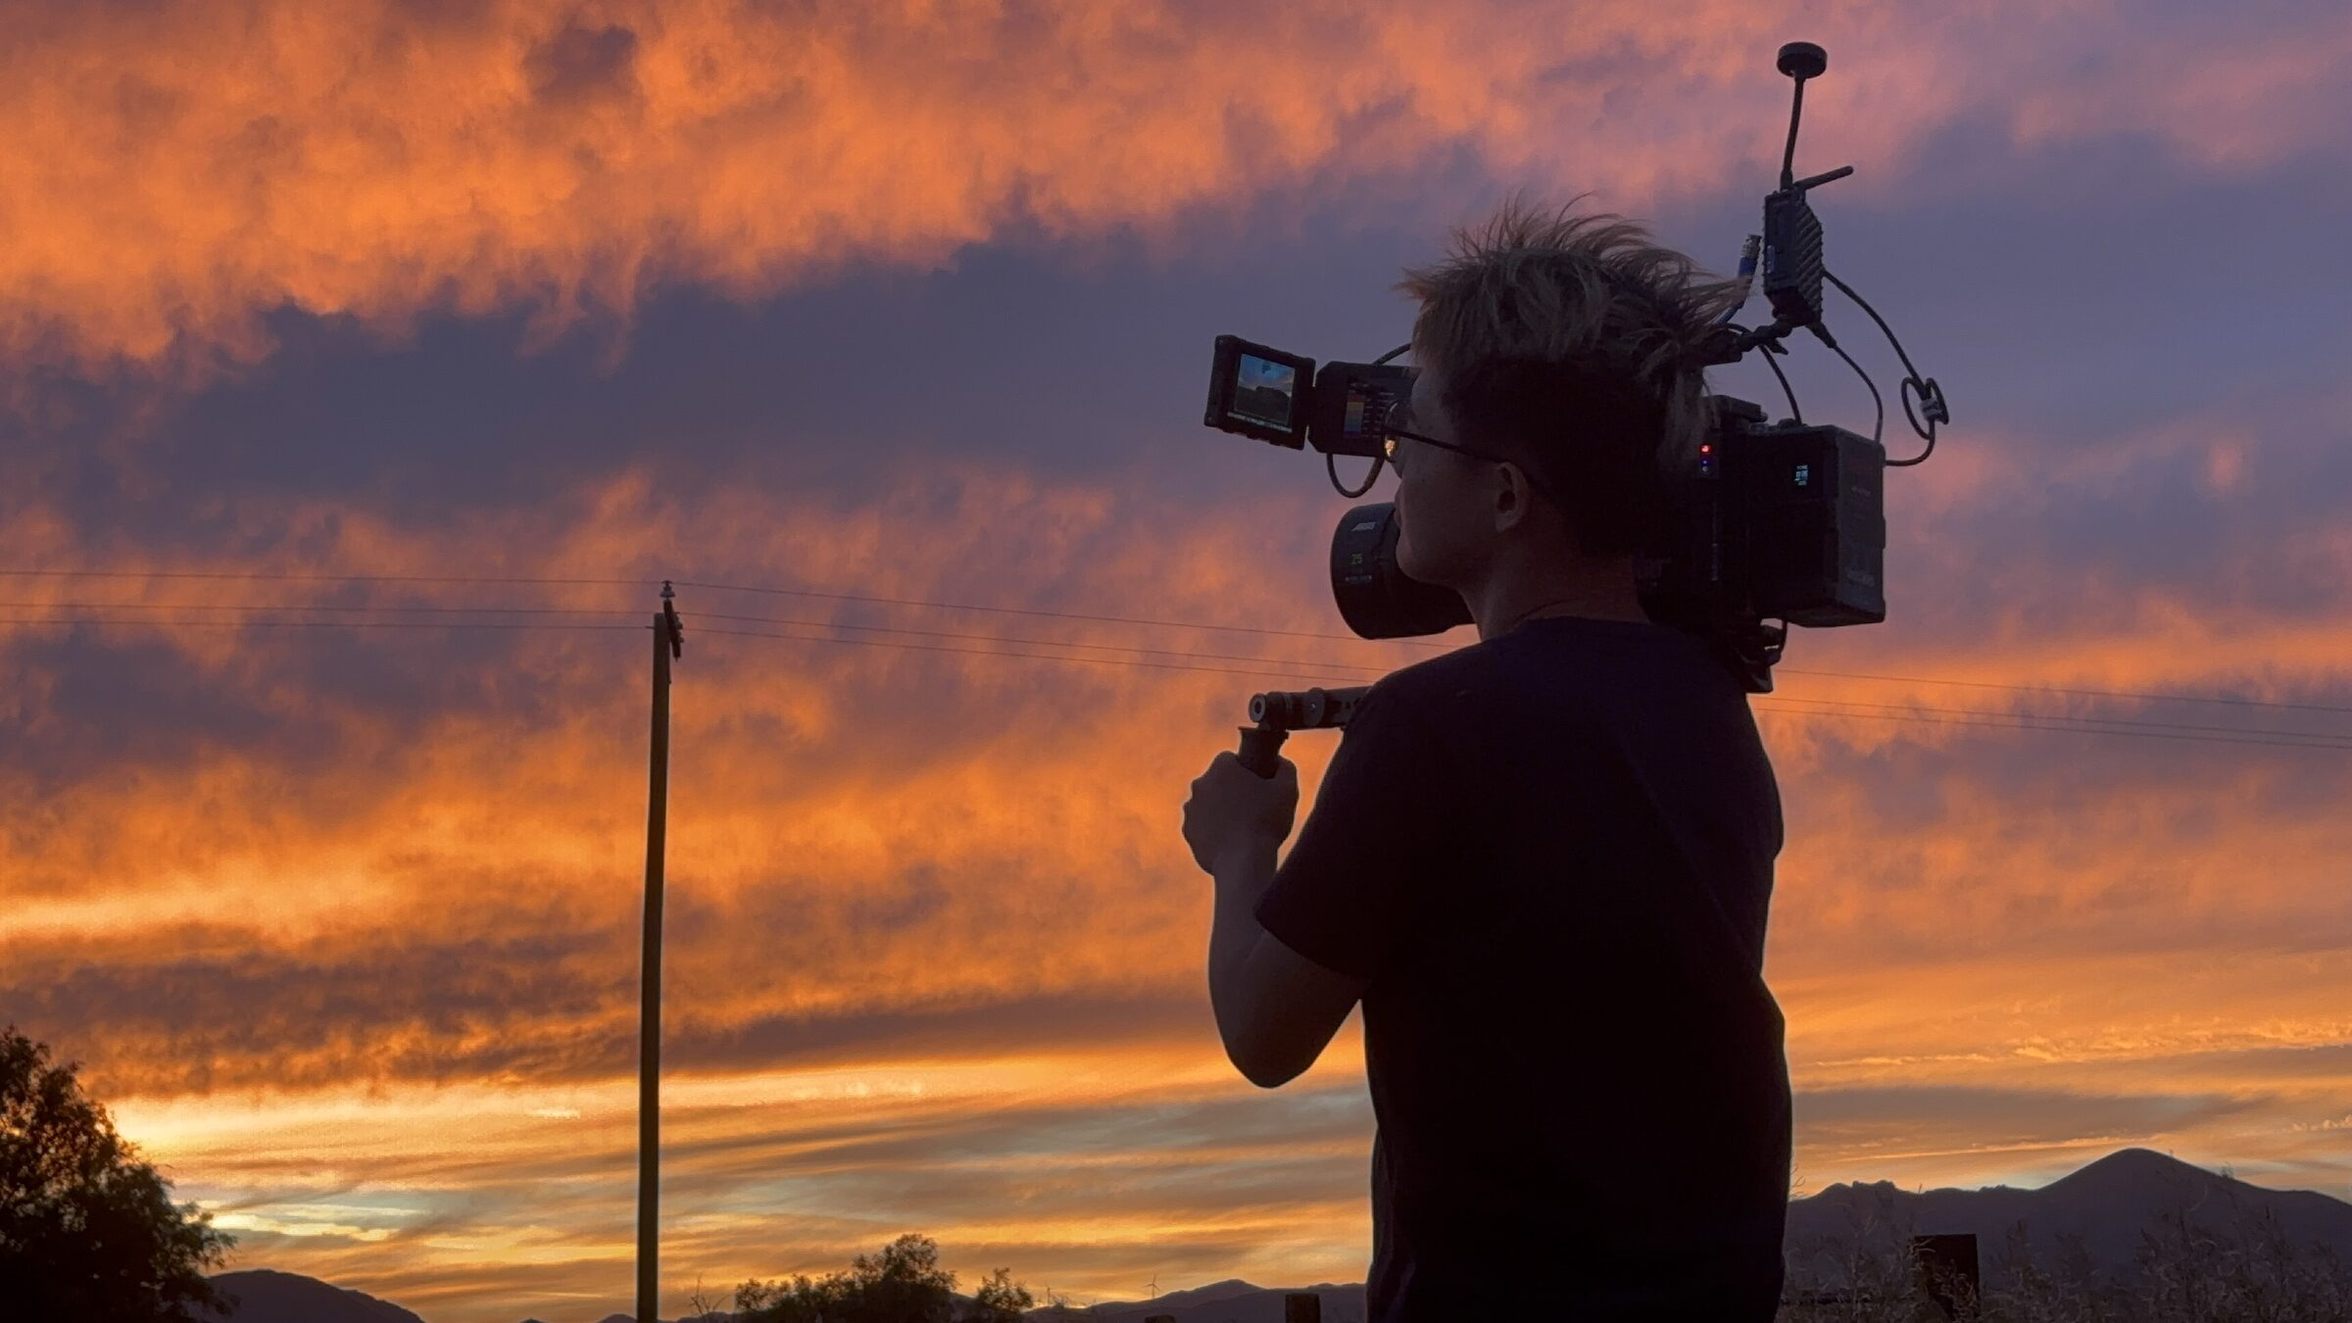
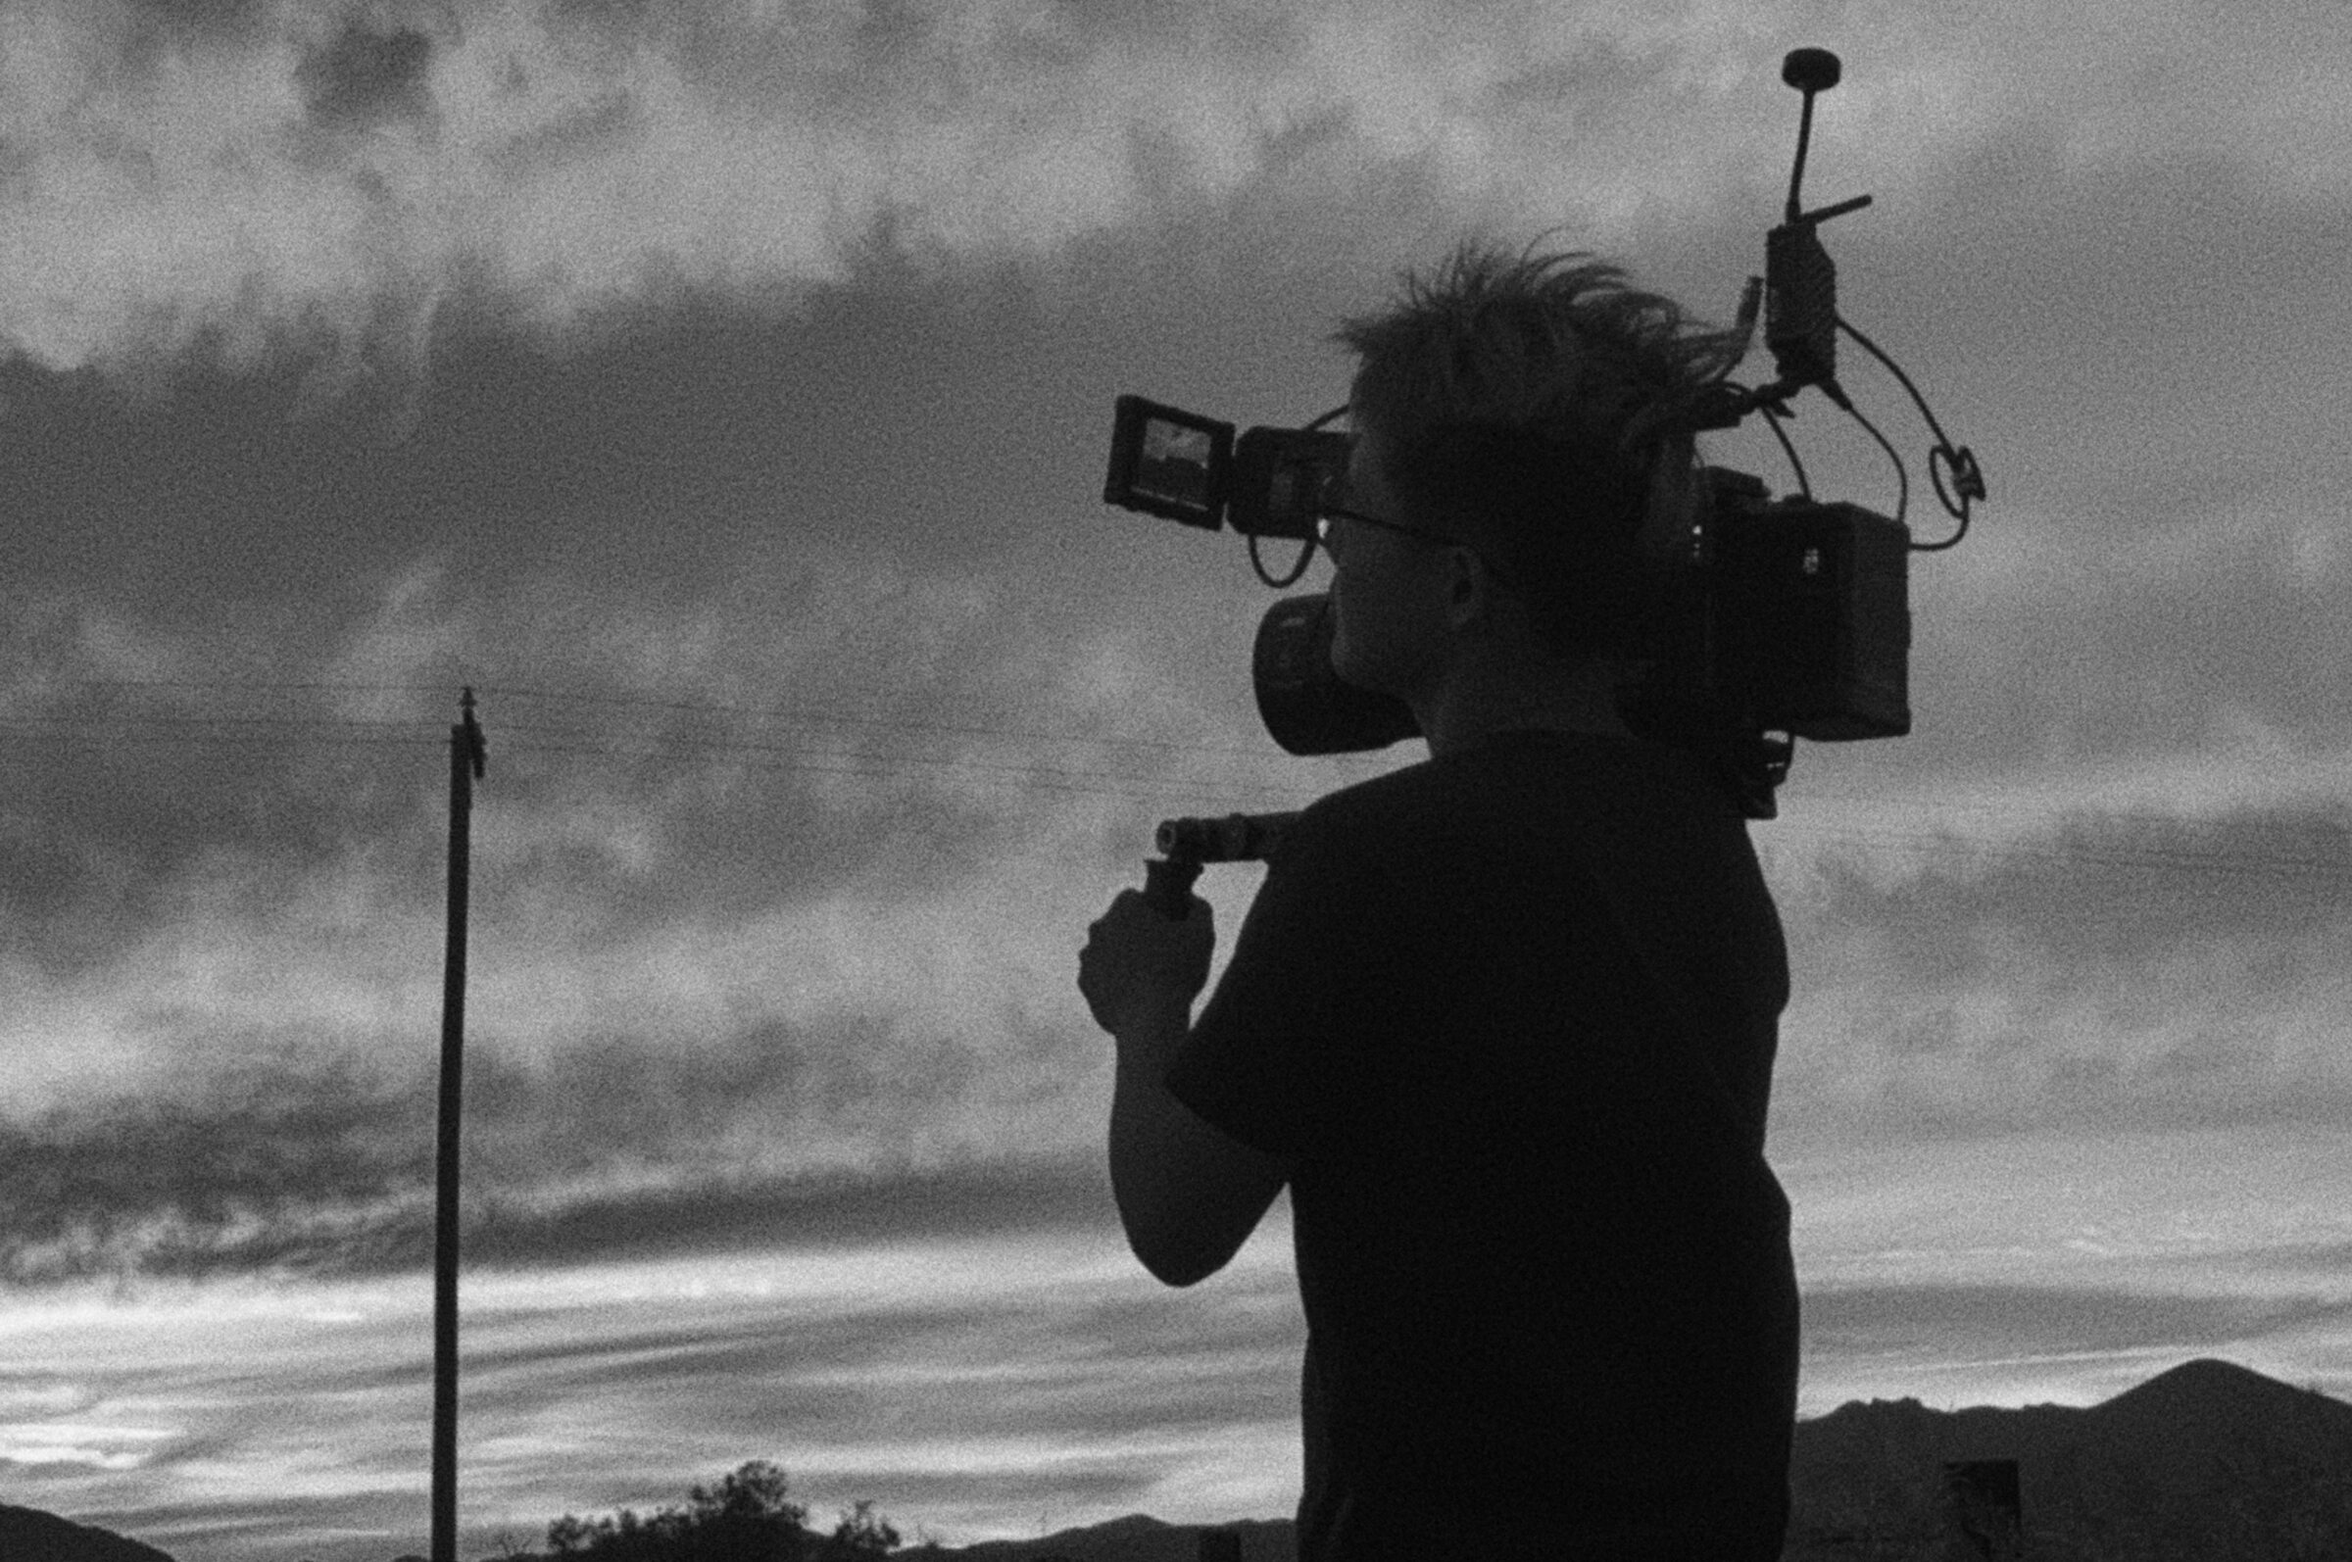
Update portrait with dimensional frame

diff --git a/src/index.css b/src/index.css
@@ -100,6 +100,52 @@ h1, h2, h3, h4, h5, h6 {
   align-items: start;
 }
 
+.about-portrait-frame {
+  position: relative;
+  isolation: isolate;
+  padding: 8px;
+  background: linear-gradient(145deg, #3a3a3a 0%, #1a1a1a 38%, #080808 100%);
+  border: 1px solid rgba(255, 255, 255, 0.16);
+  box-shadow:
+    inset 1px 1px 0 rgba(255, 255, 255, 0.14),
+    inset -1px -1px 0 rgba(0, 0, 0, 0.75),
+    12px 14px 0 -5px #151515,
+    20px 24px 28px rgba(0, 0, 0, 0.48);
+  transform: perspective(1200px) rotateY(-2deg) rotateX(0.8deg);
+  transform-origin: center;
+  transition: transform 500ms ease, box-shadow 500ms ease;
+}
+
+.about-portrait-frame::before {
+  content: "";
+  position: absolute;
+  z-index: 1;
+  inset: 8px;
+  pointer-events: none;
+  border: 1px solid rgba(255, 255, 255, 0.12);
+  box-shadow:
+    inset 10px 10px 20px rgba(255, 255, 255, 0.06),
+    inset -12px -14px 22px rgba(0, 0, 0, 0.28);
+}
+
+.about-portrait-frame::after {
+  content: "";
+  position: absolute;
+  z-index: -1;
+  inset: 12px -14px -14px 12px;
+  background: linear-gradient(145deg, #242424, #090909 72%);
+  clip-path: polygon(0 0, 100% 0, 100% 88%, 88% 100%, 0 100%);
+}
+
+.about-portrait-frame:hover {
+  transform: perspective(1200px) rotateY(0deg) rotateX(0deg) translateY(-3px);
+  box-shadow:
+    inset 1px 1px 0 rgba(255, 255, 255, 0.18),
+    inset -1px -1px 0 rgba(0, 0, 0, 0.75),
+    12px 14px 0 -5px #151515,
+    22px 28px 34px rgba(0, 0, 0, 0.56);
+}
+
 /* Work detail stills grid */
 .detail-stills {
   padding: 32px 60px 0;
@@ -202,6 +248,15 @@ h1, h2, h3, h4, h5, h6 {
     grid-template-columns: 1fr;
     padding: 90px 20px 60px;
     gap: 40px;
+  }
+
+  .about-portrait-frame {
+    margin-right: 8px;
+    transform: none;
+  }
+
+  .about-portrait-frame:hover {
+    transform: translateY(-2px);
   }
 
   /* Work detail */

diff --git a/src/pages/about.tsx b/src/pages/about.tsx
@@ -92,11 +92,11 @@ export default function About() {
            </div>
           </div>
         </div>
-        <div>
+        <div className="about-portrait-frame">
           <img
             src={`${base}about-photo.jpg`}
-            alt="Zhai Zhenglong"
-            style={{ width: "100%", display: "block", borderRadius: "4px" }}
+            alt="Zhai Zhenglong filming on location"
+            style={{ width: "100%", display: "block" }}
           />
         </div>
       </main>
